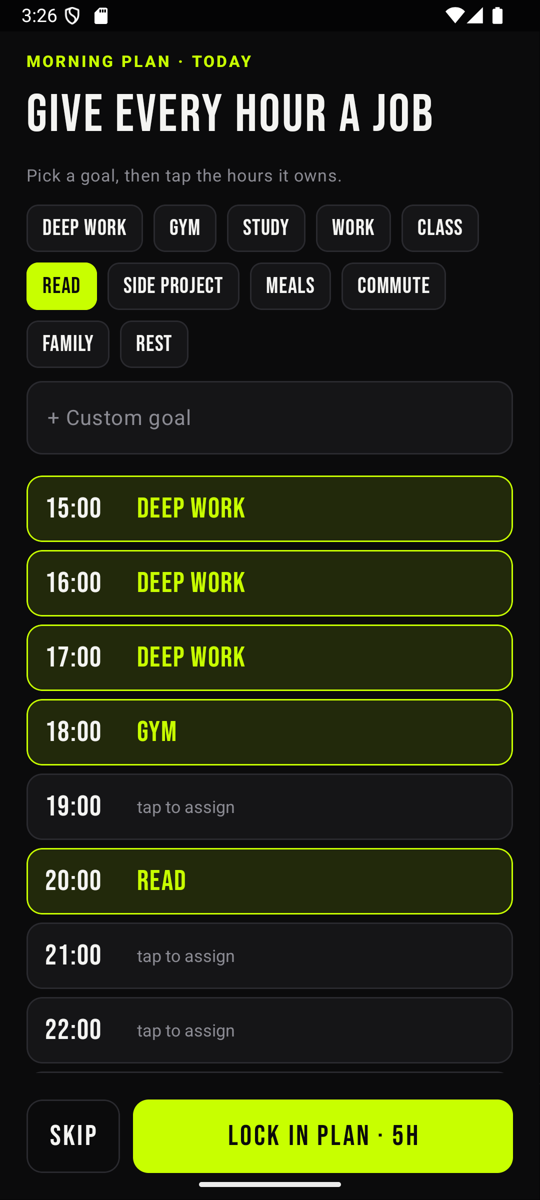
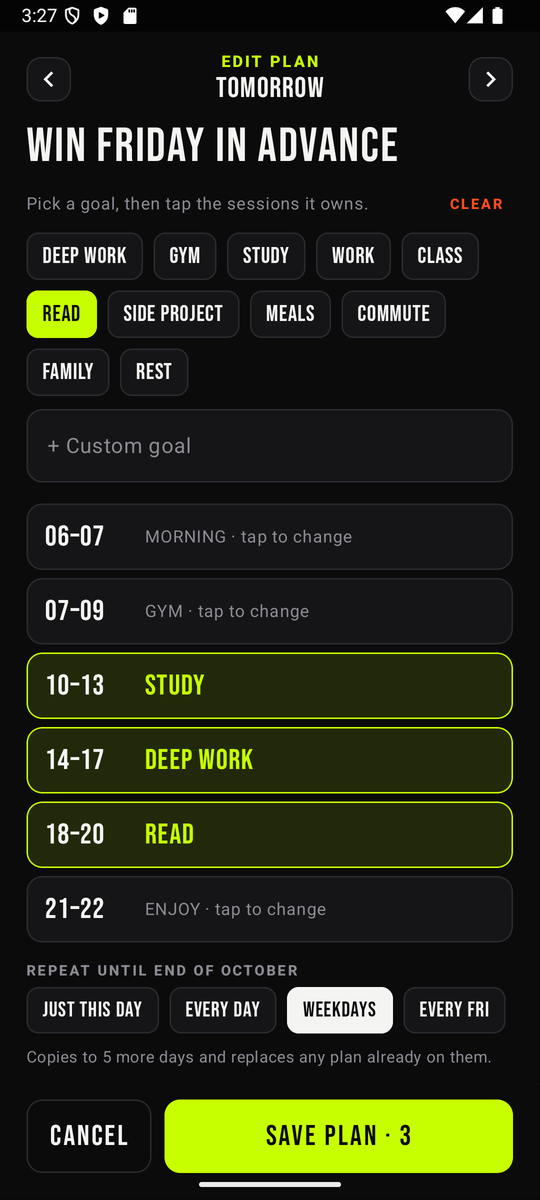
Update README screenshots for v1.2.0
Replace the alarm, dashboard, setup and plan shots with the new session
screens, and add sessions, session editor and stop-alarms screenshots.

Changed region(s): [[0.0296, 0.0, 0.9481, 0.9867], [0.4148, 0.925, 0.7704, 0.9558], [0.8889, 0.0617, 0.9185, 0.0925]]

diff --git a/README.md b/README.md
@@ -12,18 +12,26 @@ An Android app that keeps your day honest. An alarm rings at the top of every ho
 
 <table>
   <tr>
-    <td align="center"><img src="docs/screenshots/alarm.png" width="200" alt="Hourly alarm screen"><br><sub><b>Hourly alarm</b></sub></td>
+    <td align="center"><img src="docs/screenshots/alarm.png" width="200" alt="Check-in alarm for a 14–17 work session"><br><sub><b>Session alarm</b></sub></td>
     <td align="center"><img src="docs/screenshots/dashboard.png" width="200" alt="Dashboard with hour-by-hour log"><br><sub><b>Dashboard</b></sub></td>
     <td align="center"><img src="docs/screenshots/calendar.png" width="200" alt="Calendar colored by productivity"><br><sub><b>Calendar</b></sub></td>
-    <td align="center"><img src="docs/screenshots/setup.png" width="200" alt="Setup screen"><br><sub><b>Setup</b></sub></td>
+    <td align="center"><img src="docs/screenshots/setup.png" width="200" alt="Setup with sessions and check-in style"><br><sub><b>Setup</b></sub></td>
   </tr>
 </table>
 
 <table>
   <tr>
-    <td align="center"><img src="docs/screenshots/plan.png" width="200" alt="Morning plan"><br><sub><b>Morning plan</b></sub></td>
+    <td align="center"><img src="docs/screenshots/plan.png" width="200" alt="Plan editor repeating a plan on weekdays"><br><sub><b>Plan any day</b></sub></td>
     <td align="center"><img src="docs/screenshots/reward.png" width="200" alt="Reward after a productive check-in"><br><sub><b>+1 REP</b></sub></td>
     <td align="center"><img src="docs/screenshots/report.png" width="200" alt="Weekly report card"><br><sub><b>Weekly report card</b></sub></td>
+  </tr>
+</table>
+
+<table>
+  <tr>
+    <td align="center"><img src="docs/screenshots/sessions.png" width="200" alt="Dashboard timeline grouped into sessions"><br><sub><b>Sessions</b></sub></td>
+    <td align="center"><img src="docs/screenshots/sessions_editor.png" width="200" alt="Session editor"><br><sub><b>Edit sessions</b></sub></td>
+    <td align="center"><img src="docs/screenshots/stop.png" width="200" alt="Stop alarms dialog"><br><sub><b>Stop alarms</b></sub></td>
   </tr>
 </table>
 
